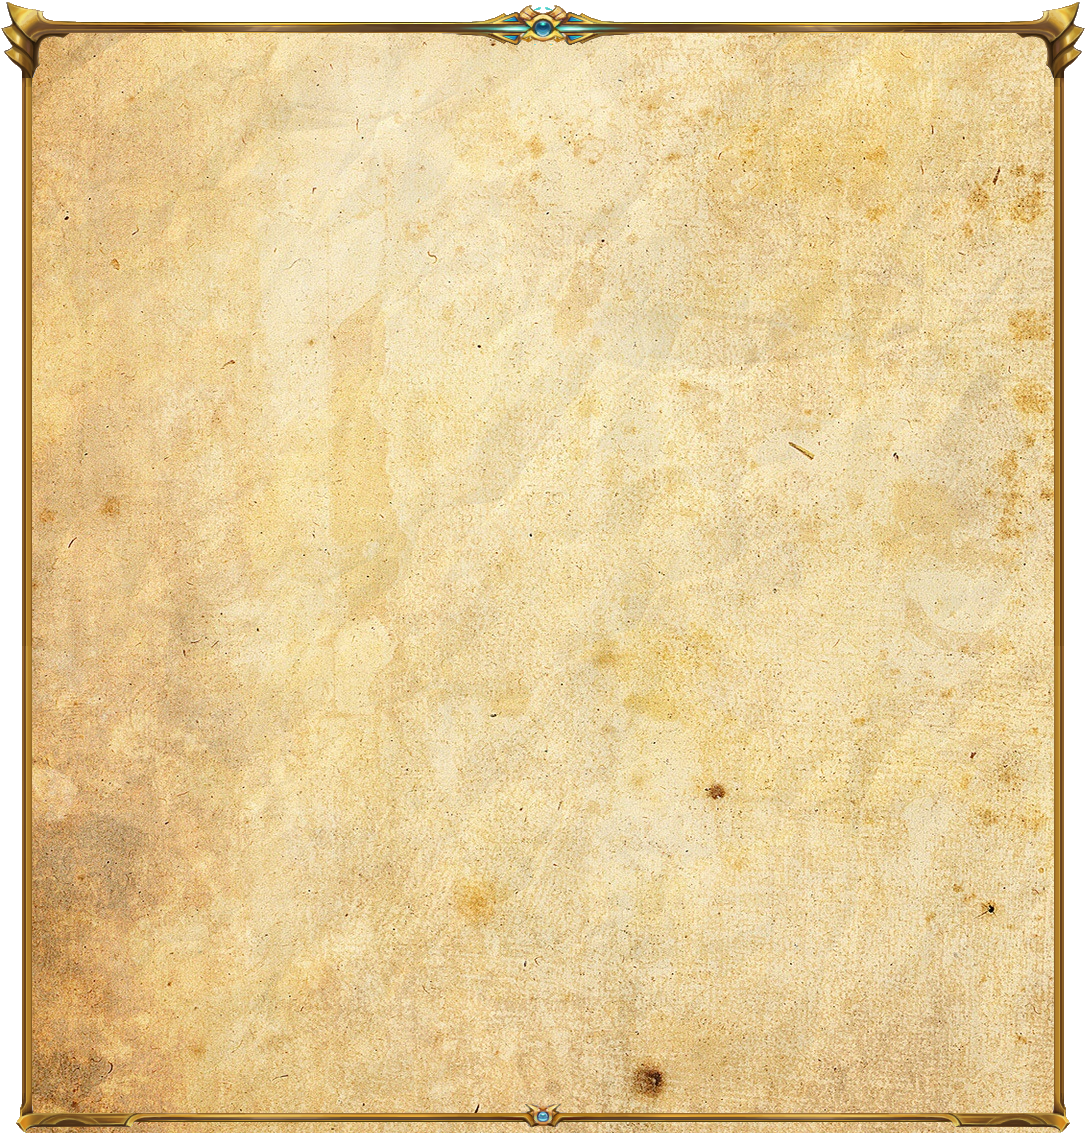
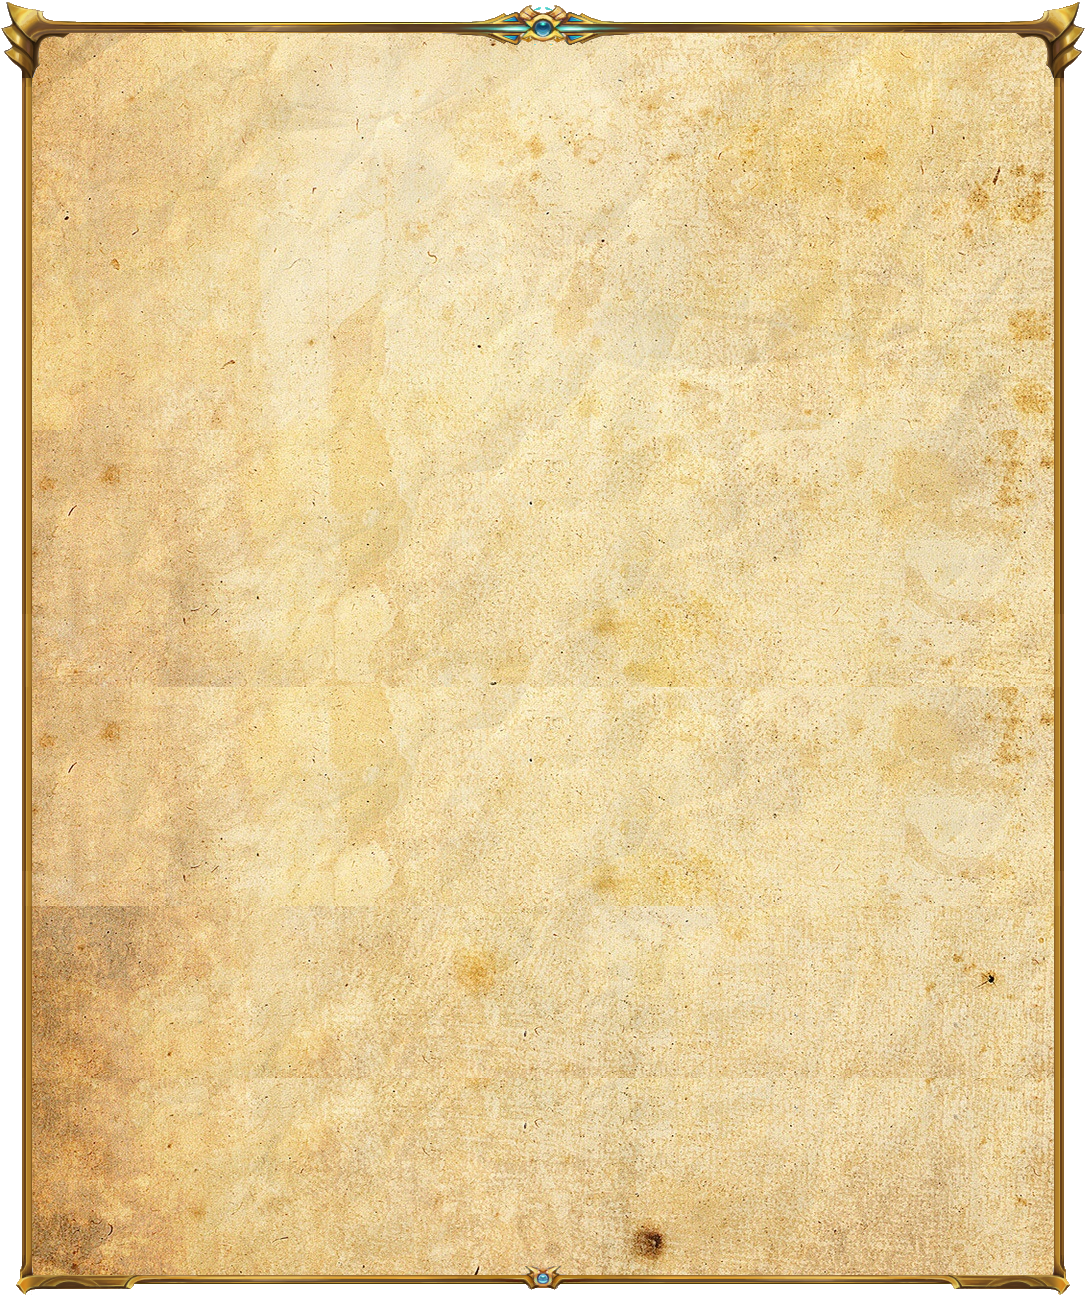
bar chart to 100% finished

diff --git a/directive/differentscharts.js b/directive/differentscharts.js
@@ -54,7 +54,7 @@ sampleApp.directive('differentscharts', function($rootScope) {
                             'Damage Dealt to Champ', 'Damage delt', 'Damage taken'
                         ],
                         series: [{
-                            label: 'Physikl',
+                            label: 'Physical',
                             values: [scope.leftPlayer.physicalDamageDealt, scope.leftPlayer.physicalDamageDealtToChampions, scope.leftPlayer.physicalDamageTaken]
                         }, {
                             label: 'Magical',
@@ -129,7 +129,7 @@ sampleApp.directive('differentscharts', function($rootScope) {
 
                     bar // update the the DOM element according to the data (D3 does the for-loop here for you)
                         .attr("transform", function(d, i) { // shift the group element to the correct position
-                            return "translate(" + 0 + "," + (i * barHeight + gapBetweenGroups * (0.5 + Math.floor(i / data.series.length))) + ")";
+                            return "translate(" + 0 + "," + (i * barHeight+20 + gapBetweenGroups * (0.5 + Math.floor(i / data.series.length))) + ")";
                         })
                         .select("rect") // select the rect inside the group element
                         .attr("width", function(d) {
@@ -149,6 +149,7 @@ sampleApp.directive('differentscharts', function($rootScope) {
                         .remove();
                     NewXAxisL
                         .call(xAxisShow)
+						.attr("transform", "translate(" + 0 + ", "+280+ ")")
 						.selectAll("text")
                         .style("text-anchor", "end")
                         .attr("dx", "-.8em")
@@ -179,9 +180,11 @@ sampleApp.directive('differentscharts', function($rootScope) {
             scope.$watch('rightPlayer', function(newValue, oldValue) {
                 if (newValue !== oldValue) {
                     scope.rightPlayer = angular.fromJson(scope.rightPlayer);
+					var PositionLabelX=[120,120,120];
+					var PositionLabelY=[10,100,190];
                     var data = {
                         labels: [
-                            'Damage Dealt to Champ', 'Damage delt', 'Damage taken'
+                             'Damage-Delt','Damage Dealt to Champions', 'Damage-Taken'
                         ],
                         series: [{
                             label: 'Physikl',
@@ -228,7 +231,7 @@ sampleApp.directive('differentscharts', function($rootScope) {
                         .orient("bottom");
                     var NewYAxis = chartRight.append("g")
                         .attr("class", "y axis")
-                        .attr("transform", "translate(" + 0 + ", " + -gapBetweenGroups * 1.4 + ")");
+                        .attr("transform", "translate(" + 0 + ", " + -20 + ")");
 
                   
                     // Specify the chart area and dimensions
@@ -253,7 +256,7 @@ sampleApp.directive('differentscharts', function($rootScope) {
 
                     bar // update the the DOM element according to the data (D3 does the for-loop here for you)
                         .attr("transform", function(d, i) { // shift the group element to the correct position
-                            return "translate(" + 0 + "," + (i * barHeight + gapBetweenGroups * (0.5 + Math.floor(i / data.series.length))) + ")";
+                            return "translate(" + 0 + "," + (i * barHeight +20+ gapBetweenGroups * (0.5 + Math.floor(i / data.series.length))) + ")";
                         })
                         .select("rect") // select the rect inside the group element
                         .attr("width", function(d) {
@@ -273,6 +276,7 @@ sampleApp.directive('differentscharts', function($rootScope) {
 
                     NewXAxisR
                         .call(xAxis)
+						.attr("transform", "translate(" + 0 + ", "+280+ ")")
                         .selectAll("text")
                         .style("text-anchor", "end")
                         .attr("dx", "-.8em")
@@ -280,6 +284,7 @@ sampleApp.directive('differentscharts', function($rootScope) {
                         .attr("transform", function(d) {
                             return "rotate(-65)"
                         });
+						
 
                     NewYAxis
                         .call(yAxis);
@@ -320,7 +325,25 @@ sampleApp.directive('differentscharts', function($rootScope) {
                         .text(function(d) {
                             return d.label;
                         });
+						
+					var LabelRectSize = 18,
+                        LabelSpacing = 4;
 
+                    var Label = chartRight.selectAll('.label')
+                        .data(data.labels)
+                        .enter()
+                        .append('g')
+                        .attr('transform', function(d, i) {
+                            return 'translate(' + PositionLabelX[i] + ',' + PositionLabelY[i] + ')';
+                        });
+
+                    Label.append('text')
+                        .attr('class', 'label')
+                        .attr('x', -100)
+                        .attr('y', LabelRectSize - LabelSpacing)
+                        .text(function(d,i) {
+                            return data.labels[i];
+                        });
 
 
                     function mouseover(data, color, width) {

diff --git a/directive/chartsovertime.js b/directive/chartsovertime.js
@@ -5,52 +5,54 @@ sampleApp.directive('chartsovertime', function($rootScope) {
             'showData': '='
         },
         link: function(scope, element, attrs) {
-		scope.$watch('showData', function(newValue, oldValue) {
-                if (newValue !== oldValue) {
-					console.log(newValue);
-					var div = d3.select("body").append("div")
+		var div = d3.select("body").append("div")
 						.attr("class", "tooltip")
 						.style("opacity", 1e-6);
-					data=newValue;
-					
-					var data2 = [
-						[0, 0],
-						[1, 1],
-						[2, 5],
-						[3, 5],
-						[4, 7],
-						[5, 10],
-						[6, 50],
-						[7, 55],
-						[8, 90],
-						[9, 90],
-						[10, 90]
-					];
-					console.log(data[9][0]);
-					var margin = {
+		var margin = {
 							top: 20,
 							right: 30,
 							bottom: 30,
-							left: 180
+							left: 100
 						},
-						width = 800 - margin.left - margin.right,
-						height = 400 - margin.top - margin.bottom;
-
+						width = 900 - margin.left - margin.right,
+						height = 500 - margin.top - margin.bottom;
+		var lineArea=d3.select(".OverTime")
+						.attr("width", width + margin.left + margin.right)
+						.attr("height", height + margin.top + margin.bottom);
+		var NewXAxis = lineArea.append("g")
+			.attr("class", "x axis")
+			.attr("transform", "translate(0," + height + ")");
+			
+		var NewYAxis = lineArea.append("g")
+			.attr("class", "y axis");
+		scope.$watch('showData', function(newValue, oldValue) {
+                if (newValue !== oldValue) {				
+					data=newValue;
+					console.log(data);
+					
+					
 					var x = d3.scale.linear()
-						.domain([0, data2[data2.length - 1][0]])
+						.domain([0, data.length])
 						.range([0, width]);
 
 					var y = d3.scale.linear()
-						.domain([0, data2[data2.length - 1][1]])
+						.domain([0, data[data.length-1][1]])
 						.range([height, 0]);
+						
 
 					var xAxis = d3.svg.axis()
 						.scale(x)
-						.orient("bottom");
+						.orient("bottom")
+						.ticks('7')
+                        .tickSize(10)
+                        .orient("bottom");
 
 					var yAxis = d3.svg.axis()
 						.scale(y)
-						.orient("left");
+						.orient("left")
+						.ticks('5')
+                        .tickSize(10)
+                        .orient("left");
 
 					var lineGen = d3.svg.line()
 						.x(function(d) {
@@ -60,10 +62,8 @@ sampleApp.directive('chartsovertime', function($rootScope) {
 							return y(d[1]);
 						});
 
-					var svg = d3.select(".OverTime").append("svg")
-						.datum(data)
-						.attr("width", width + margin.left + margin.right)
-						.attr("height", height + margin.top + margin.bottom)
+					var svg = lineArea
+						.data(data)
 						.append("g")
 						.attr("transform", "translate(" + margin.left + "," + margin.top + ")");
 
@@ -84,7 +84,7 @@ sampleApp.directive('chartsovertime', function($rootScope) {
 						.call(yAxis)
 						.append("text")
 						.attr("x", width)
-						.attr("y", height + 25)
+						.attr("y", height - 10)
 						.style("text-anchor", "end")
 						.text("Minutes");
 
@@ -93,12 +93,7 @@ sampleApp.directive('chartsovertime', function($rootScope) {
 						.attr('stroke', 'green')
 						.attr('stroke-width', 2)
 						.attr('fill', 'none');
-
-					/*svg.append("path")
-						.attr('d', lineGen(data2))
-						.attr('stroke', 'red')
-						.attr('stroke-width', 2)
-						.attr('fill', 'none');*/
+					
 
 
 					var dots = svg.selectAll(".dot");
@@ -113,18 +108,7 @@ sampleApp.directive('chartsovertime', function($rootScope) {
 							mouseover(d, "green");
 						})
 						.on("mouseout", mouseout);
-
-					/*dots.data(data2)
-						.enter().append("circle")
-						.attr("class", "dot")
-						.attr("cx", lineGen.x())
-						.attr("cy", lineGen.y())
-						.attr("r", 3)
-						.on("mouseover", function(d) {
-							mouseover(d, "red");
-						})
-						.on("mouseout", mouseout);*/
-
+						
 					function mouseover(d, color) {
 						div.transition()
 							.duration(500)
@@ -142,7 +126,7 @@ sampleApp.directive('chartsovertime', function($rootScope) {
 							.style("opacity", 1e-6);
 					};
 				}
-			});
+			},true);
         }
     };
 });

diff --git a/templates/GameDetails.html b/templates/GameDetails.html
@@ -1,5 +1,5 @@
 
-<div id="GameOverview-container" class="container"  style="background-image:url(Libraries/Background/Try2.png);background-repeat: no-repeat;height:1140px;background-position: center; ">
+<div id="GameOverview-container" class="container"  style="background-image:url(Libraries/Background/Try2.png);background-repeat: no-repeat;height:1300px;background-position: center; ">
 	<div id="Show_and_Hide_GameDetails" ng-hide="ShowGameDetails">
 		<div id="LaneOpponent" class="container clearfix"  >
 			
@@ -22,15 +22,6 @@
 				
 			</ul>
 			</div>		
-		</div>
-		<div style="margin-left :38%; margin-top :0%; width:10%; position:absolute;">
-		Damage Dealt
-		</div>
-		<div style="margin-left :38%; margin-top :10%; width:10%; position:absolute;">
-		Damage Dealt to Champions
-		</div>
-		<div style="margin-left :38%; margin-top :20%; width:10%; position:absolute;">
-		Damage Taken
 		</div>
 		<div>
 			<div style="height: 300px; width:100%;">

diff --git a/css/GameDetails.css b/css/GameDetails.css
@@ -14,7 +14,7 @@
 .axis  {
   fill: none;
   stroke: #000;
-  stroke-width: 3; 
+  stroke-width: 1.8; 
   shape-rendering: crispEdges;
 }
 
@@ -105,7 +105,18 @@
 	width: 100%;
 	height: 700px;
 }
-
+.label{
+  position: absolute;
+  text-align: center;
+  width: 90px;
+  height: 31px;
+  padding: 8px;
+  font: 15px sans-serif;
+  background: #ddd;
+  border: solid 1px #aaa;
+  border-radius: 6px;
+  pointer-events: none;
+}
 
 
 
